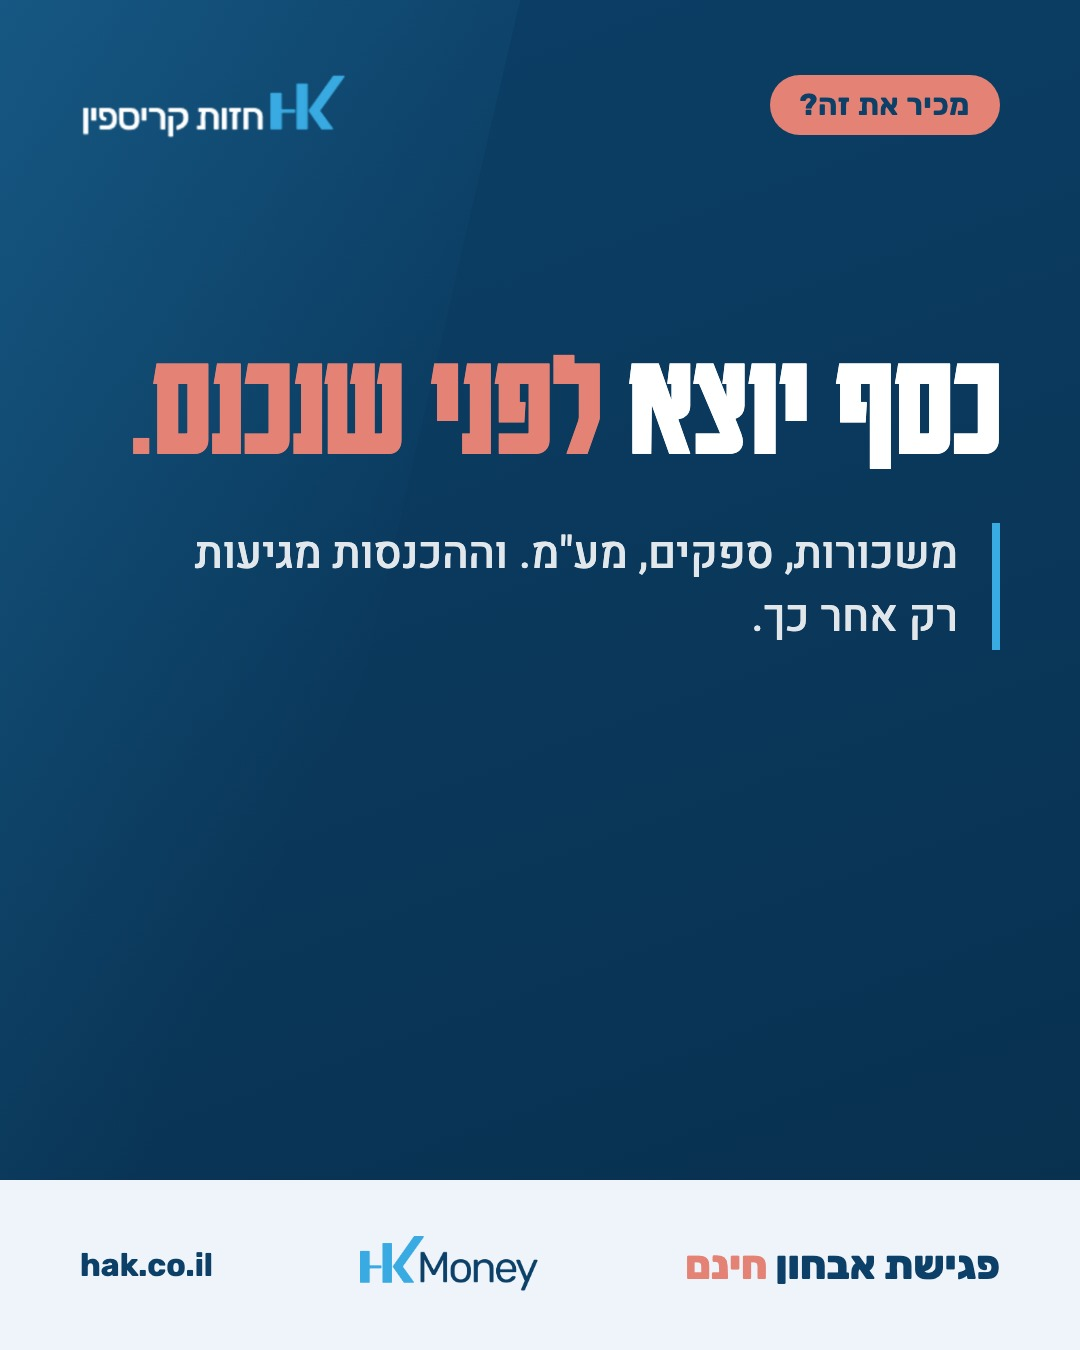
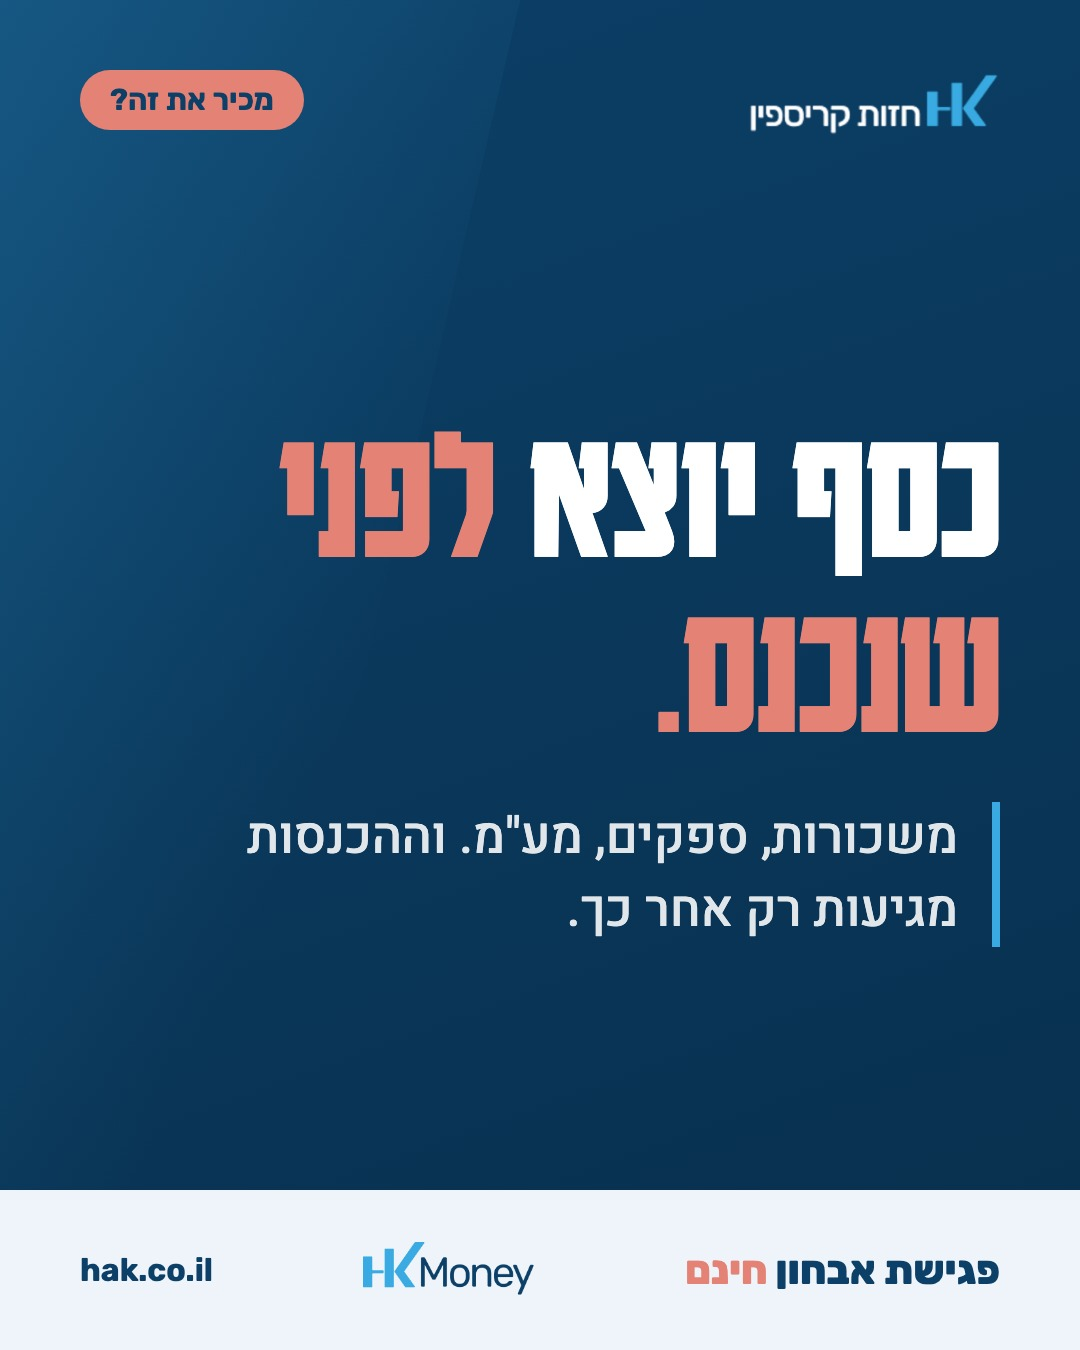
template: 7 layouts (statement/light/salmon/chat/versus/list/photo); week 1 posts in 3 layouts

diff --git a/template/post.html b/template/post.html
@@ -2,77 +2,127 @@
 <html lang="he" dir="rtl">
 <head>
 <meta charset="UTF-8" />
-<link href="https://fonts.googleapis.com/css2?family=Heebo:wght@400;500;700&family=Karantina:wght@400;700&family=Rubik:wght@500;700;800&display=swap" rel="stylesheet" />
+<link href="https://fonts.googleapis.com/css2?family=Heebo:wght@400;500;700;800&family=Karantina:wght@400;700&family=Rubik:wght@500;700;800&display=swap" rel="stylesheet" />
 <style>
-  :root { --navy:#0c4068; --navy2:#082f4d; --salmon:#e48375; --blue:#39abe2; --off:#eef4f9; }
+  :root { --navy:#0c4068; --navy2:#082f4d; --salmon:#e48375; --salmon2:#d4705f; --blue:#39abe2; --off:#eef4f9; --text:#333344; --muted:#56677a; }
   * { box-sizing: border-box; margin: 0; padding: 0; }
   html, body { width: 1080px; height: 1350px; overflow: hidden; }
-  body {
-    font-family: 'Heebo', sans-serif;
-    background: linear-gradient(160deg, var(--navy) 0%, var(--navy2) 100%);
-    color: #fff; position: relative;
-  }
-  .stripe {
-    position: absolute; inset: 0 auto 0 0; width: 520px;
-    background: linear-gradient(115deg, rgba(57,171,226,.22), rgba(57,171,226,0) 60%);
-    clip-path: polygon(0 0, 100% 0, 40% 100%, 0 100%);
-  }
-  .top { position: absolute; top: 70px; right: 80px; left: 80px; display: flex; justify-content: space-between; align-items: center; }
-  .top img { height: 70px; }
-  .kicker {
-    font-family: 'Rubik', sans-serif; font-weight: 700; font-size: 30px; letter-spacing: .02em;
-    color: var(--navy); background: var(--salmon); border-radius: 60px; padding: 12px 30px;
-  }
-  .main { position: absolute; right: 80px; left: 80px; top: 330px; }
-  .title {
-    font-family: 'Karantina', sans-serif; font-weight: 700; font-size: 150px; line-height: .95;
-    letter-spacing: -.01em;
-  }
-  .title em { font-style: normal; color: var(--salmon); }
-  .body {
-    margin-top: 50px; font-size: 44px; line-height: 1.45; font-weight: 500; color: rgba(255,255,255,.88);
-    max-width: 860px; border-right: 8px solid var(--blue); padding-right: 34px;
-  }
-  .bottom {
-    position: absolute; bottom: 0; right: 0; left: 0; height: 170px;
-    background: var(--off); color: var(--navy);
-    display: flex; align-items: center; justify-content: space-between; padding: 0 80px;
-  }
+  body { font-family: 'Heebo', sans-serif; position: relative; color: #fff; background: linear-gradient(160deg, var(--navy) 0%, var(--navy2) 100%); }
+  em { font-style: normal; color: var(--salmon); }
+  .logo { position: absolute; top: 70px; right: 80px; height: 66px; }
+  .kicker { position: absolute; top: 70px; left: 80px; font-family: 'Rubik', sans-serif; font-weight: 700; font-size: 30px; color: var(--navy); background: var(--salmon); border-radius: 60px; padding: 12px 30px; }
+  .bottom { position: absolute; bottom: 0; right: 0; left: 0; height: 160px; background: var(--off); color: var(--navy); display: flex; align-items: center; justify-content: space-between; padding: 0 80px; }
   .cta { font-family: 'Rubik', sans-serif; font-weight: 800; font-size: 40px; }
   .cta span { color: var(--salmon); }
-  .bottom img { height: 58px; }
-  .url { font-family: 'Rubik', sans-serif; font-weight: 700; font-size: 32px; color: var(--navy); direction: ltr; }
+  .bottom img { height: 56px; }
+  .url { font-family: 'Rubik', sans-serif; font-weight: 700; font-size: 32px; direction: ltr; }
+  .main { position: absolute; right: 80px; left: 80px; top: 200px; bottom: 200px; display: flex; flex-direction: column; justify-content: center; }
+  .title { font-family: 'Karantina', sans-serif; font-weight: 700; font-size: 190px; line-height: .92; letter-spacing: -.01em; }
+  .body { margin-top: 50px; font-size: 50px; line-height: 1.45; font-weight: 500; max-width: 880px; }
+
+  /* ── statement: כותרת ענקית על navy (ברירת מחדל) ── */
+  .l-statement .stripe { position: absolute; inset: 0 auto 0 0; width: 520px; background: linear-gradient(115deg, rgba(57,171,226,.22), rgba(57,171,226,0) 60%); clip-path: polygon(0 0, 100% 0, 40% 100%, 0 100%); }
+  .l-statement .body { color: rgba(255,255,255,.88); border-right: 8px solid var(--blue); padding-right: 34px; }
+
+  /* ── light: רקע בהיר, כותרת navy ── */
+  .l-light { background: var(--off); color: var(--navy); }
+  .l-light .kicker { background: var(--navy); color: #fff; }
+  .l-light .body { color: var(--muted); border-right: 8px solid var(--salmon); padding-right: 34px; }
+  .l-light .bottom { background: var(--navy); color: #fff; }
+  .l-light .bottom img { filter: brightness(0) invert(1); }
+  .l-light::after { content: ''; position: absolute; width: 900px; height: 900px; border-radius: 50%; background: radial-gradient(circle, rgba(57,171,226,.18), transparent 65%); left: -300px; bottom: -200px; }
+
+  /* ── salmon: רקע סלמון, טקסט navy ── */
+  .l-salmon { background: var(--salmon); color: var(--navy); }
+  .l-salmon em { color: #fff; }
+  .l-salmon .kicker { background: var(--navy); color: #fff; }
+  .l-salmon .body { color: rgba(12,64,104,.85); border-right: 8px solid #fff; padding-right: 34px; }
+  .l-salmon .bottom { background: var(--navy); color: #fff; }
+  .l-salmon .bottom .cta span { color: var(--salmon); }
+  .l-salmon .bottom img { filter: brightness(0) invert(1); }
+
+  /* ── chat: שיחת וואטסאפ ── */
+  .l-chat .main { justify-content: flex-start; padding-top: 30px; }
+  .l-chat .title { font-size: 120px; margin-bottom: 40px; }
+  .chat { display: flex; flex-direction: column; gap: 22px; }
+  .bub { max-width: 82%; padding: 26px 34px; border-radius: 28px; font-size: 40px; line-height: 1.4; font-weight: 500; position: relative; }
+  .bub.q { align-self: flex-start; background: #dcf8c6; color: #1a1a1a; border-top-left-radius: 6px; }
+  .bub.a { align-self: flex-end; background: #fff; color: #1a1a1a; border-top-right-radius: 6px; }
+  .bub .t { display: block; font-size: 22px; color: #7a8a99; margin-top: 8px; text-align: left; }
+  .bub.a b { color: var(--navy); }
+
+  /* ── versus: זה מול זה ── */
+  .l-versus .title { font-size: 130px; margin-bottom: 44px; text-align: center; }
+  .vs { display: grid; grid-template-columns: 1fr 1fr; gap: 24px; }
+  .col { border-radius: 26px; padding: 40px 34px; min-height: 520px; }
+  .col.bad { background: rgba(255,255,255,.08); border: 2px solid rgba(255,255,255,.18); }
+  .col.good { background: #fff; color: var(--navy); }
+  .col h3 { font-family: 'Rubik', sans-serif; font-size: 44px; font-weight: 800; margin-bottom: 26px; }
+  .col.bad h3 { color: rgba(255,255,255,.7); }
+  .col.good h3 { color: var(--salmon2); }
+  .col li { list-style: none; font-size: 36px; line-height: 1.4; margin-bottom: 18px; padding-right: 44px; position: relative; }
+  .col li::before { position: absolute; right: 0; font-weight: 800; }
+  .col.bad li::before { content: '✕'; color: var(--salmon); }
+  .col.good li::before { content: '✓'; color: #2e9e6b; }
+
+  /* ── list: רשימה ממוספרת ── */
+  .l-list { background: var(--off); color: var(--navy); }
+  .l-list .kicker { background: var(--navy); color: #fff; }
+  .l-list .bottom { background: var(--navy); color: #fff; }
+  .l-list .bottom img { filter: brightness(0) invert(1); }
+  .l-list .title { font-size: 140px; margin-bottom: 44px; }
+  .steps { display: flex; flex-direction: column; gap: 22px; }
+  .step { display: flex; gap: 30px; align-items: flex-start; background: #fff; border-radius: 24px; padding: 30px 34px; box-shadow: 0 6px 24px rgba(12,64,104,.08); }
+  .step i { font-style: normal; font-family: 'Karantina', sans-serif; font-size: 96px; line-height: .8; color: var(--salmon); flex-shrink: 0; width: 80px; }
+  .step div { font-size: 38px; line-height: 1.4; color: var(--text); }
+  .step b { display: block; font-family: 'Rubik', sans-serif; font-size: 42px; color: var(--navy); margin-bottom: 4px; }
+
+  /* ── photo: אדם + כותרת ── */
+  .l-photo .photo { position: absolute; left: -40px; bottom: 160px; height: 760px; }
+  .l-photo .main { right: 80px; left: 520px; top: 200px; bottom: 200px; }
+  .l-photo .title { font-size: 150px; }
+  .l-photo .body { color: rgba(255,255,255,.88); font-size: 44px; border-right: 8px solid var(--blue); padding-right: 30px; }
 </style>
 </head>
 <body>
   <div class="stripe"></div>
-  <div class="top">
-    <span class="kicker" id="kicker"></span>
-    <img src="assets/hk-logo.png" alt="" />
-  </div>
-  <div class="main">
-    <h1 class="title" id="title"></h1>
-    <p class="body" id="body"></p>
-  </div>
+  <img class="logo" src="assets/hk-logo.png" alt="" />
+  <span class="kicker" id="kicker"></span>
+  <img class="photo" id="photo" src="" alt="" hidden />
+  <div class="main" id="main"></div>
   <div class="bottom">
     <div class="cta" id="cta"></div>
     <img id="svc" src="" alt="" />
     <div class="url">hak.co.il</div>
   </div>
 <script>
-  // המידע מוזרק ע"י scripts/render.py
-  const P = /*POST_JSON*/{"kicker":"טיפ","title":"כותרת <em>לדוגמה</em>","body":"משפט משנה לדוגמה","cta":"פגישת אבחון <span>חינם</span>","logo":"hk"}/*END*/;
-  document.getElementById('kicker').textContent = P.kicker;
-  document.getElementById('title').innerHTML = P.title;
-  document.getElementById('body').textContent = P.body;
+  const P = /*POST_JSON*/{}/*END*/;
+  const layout = P.layout || 'statement';
+  document.body.classList.add('l-' + layout);
+  document.getElementById('kicker').textContent = P.kicker || '';
   document.getElementById('cta').innerHTML = P.cta || 'פגישת אבחון <span>חינם</span>';
   const svc = document.getElementById('svc');
   const logos = { hkmoney: 'assets/hkmoney-logo.png', hkpro: 'assets/hkpro-logo.png' };
-  if (logos[P.logo]) { svc.src = logos[P.logo]; } else { svc.remove(); }
+  if (logos[P.logo]) svc.src = logos[P.logo]; else svc.remove();
+  const main = document.getElementById('main');
+  const h = P.title ? `<h1 class="title">${P.title}</h1>` : '';
+  if (layout === 'chat') {
+    main.innerHTML = h + '<div class="chat">' + (P.chat || []).map(m =>
+      `<div class="bub ${m.from === 'q' ? 'q' : 'a'}">${m.text}<span class="t">${m.time || ''}</span></div>`).join('') + '</div>';
+  } else if (layout === 'versus') {
+    const li = a => (a || []).map(x => `<li>${x}</li>`).join('');
+    main.innerHTML = h + `<div class="vs"><div class="col bad"><h3>${P.left.title}</h3><ul>${li(P.left.items)}</ul></div><div class="col good"><h3>${P.right.title}</h3><ul>${li(P.right.items)}</ul></div></div>`;
+  } else if (layout === 'list') {
+    main.innerHTML = h + '<div class="steps">' + (P.steps || []).map((s, i) =>
+      `<div class="step"><i>${String(i + 1).padStart(2, '0')}</i><div><b>${s.title}</b>${s.text || ''}</div></div>`).join('') + '</div>';
+  } else {
+    main.innerHTML = h + (P.body ? `<p class="body">${P.body}</p>` : '');
+    if (layout === 'photo') { const ph = document.getElementById('photo'); ph.src = P.photo || 'assets/person-phone.png'; ph.hidden = false; }
+  }
   // מקטין כותרת ארוכה כדי שלא תגלוש
-  const t = document.getElementById('title');
-  let size = 150;
-  while (t.scrollHeight > 520 && size > 90) { size -= 6; t.style.fontSize = size + 'px'; }
+  const t = main.querySelector('.title');
+  if (t) { let size = parseFloat(getComputedStyle(t).fontSize); const max = { chat: 260, versus: 280, list: 300, photo: 480 }[layout] || 620;
+    while (t.scrollHeight > max && size > 90) { size -= 6; t.style.fontSize = size + 'px'; } }
 </script>
 </body>
 </html>

diff --git a/scripts/render.py b/scripts/render.py
@@ -39,13 +39,10 @@ def safe_inline(text):
 
 
 def render(post, chrome):
-    data = {
-        "kicker": post["kicker"],
-        "title": safe_inline(post["title"]),
-        "body": post["body"],
-        "cta": safe_inline(post.get("cta", "פגישת אבחון <span>חינם</span>")),
-        "logo": post.get("logo", "hk"),
-    }
+    data = {k: v for k, v in post.items() if k in ("layout", "kicker", "body", "logo", "photo", "chat", "steps", "left", "right")}
+    data["title"] = safe_inline(post.get("title", ""))
+    data["cta"] = safe_inline(post.get("cta", "פגישת אבחון <span>חינם</span>"))
+    data.setdefault("logo", "hk")
     src = TEMPLATE.read_text(encoding="utf-8")
     src = re.sub(r"/\*POST_JSON\*/.*?/\*END\*/", "/*POST_JSON*/" + json.dumps(data, ensure_ascii=False) + "/*END*/", src, flags=re.S)
     with tempfile.NamedTemporaryFile("w", suffix=".html", dir=TEMPLATE.parent, delete=False, encoding="utf-8") as f:
